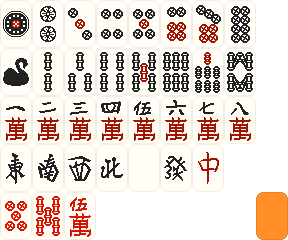
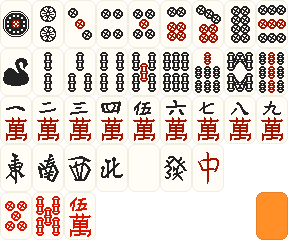
added missing tiles

Changed region(s): [[0.875, 0.0, 1.0, 0.6125]]

diff --git a/tiles/src/generate.py b/tiles/src/generate.py
@@ -31,7 +31,7 @@ def main():
                           each[1] * 4 + each[1]))
 
     tiles = []
-    for value_index, value in enumerate(["I", "Ryan", "San", "Su", "U", "Ryu", "Pa", "Chu"]):
+    for value_index, value in enumerate(["I", "Ryan", "San", "Su", "U", "Ryu", "Chi", "Pa", "Chu"]):
         for suite_index, suite in enumerate(["pin", "sou", "man"]):
             tiles.append(((value_index, suite_index), value + suite))
 
